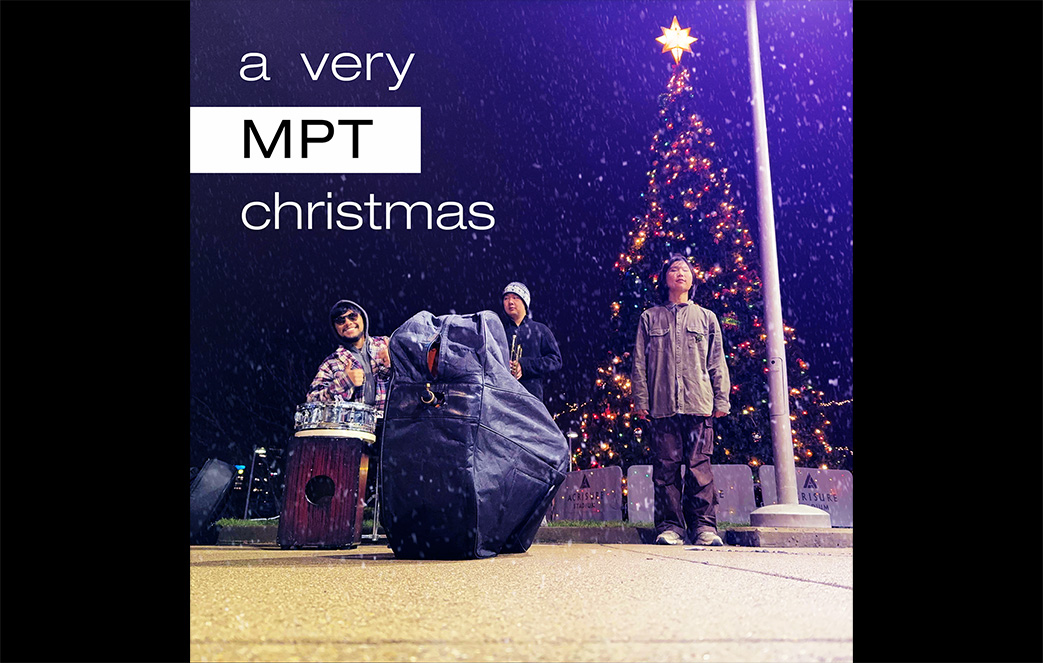
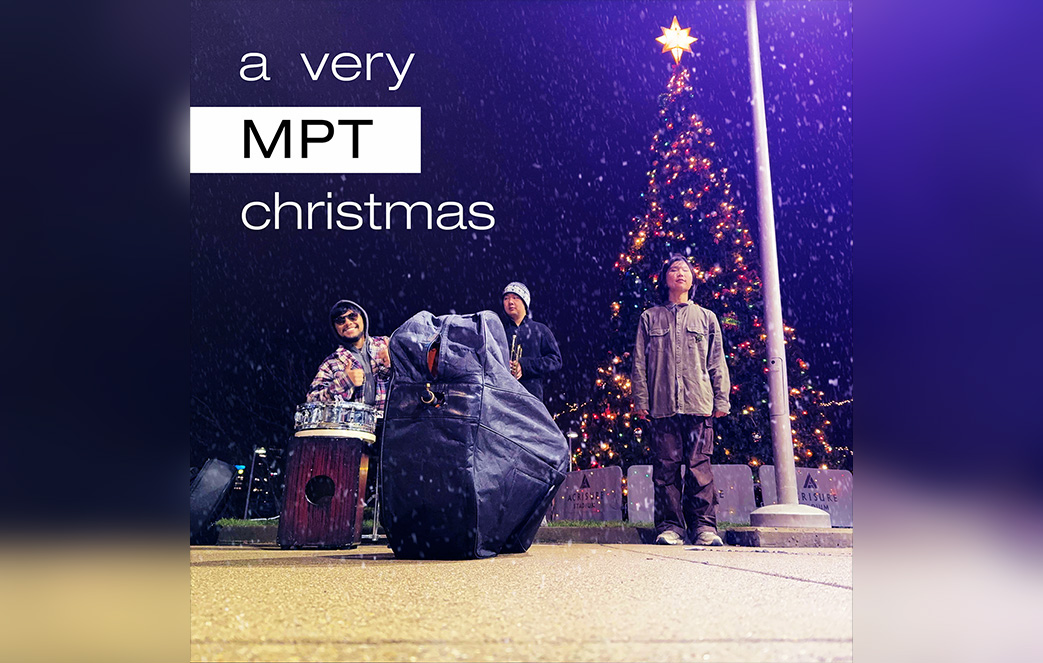
little by little

diff --git a/index.html b/index.html
@@ -9,8 +9,8 @@
     <link rel="preconnect" href="https://fonts.googleapis.com">
     <link rel="preconnect" href="https://fonts.gstatic.com" crossorigin>
     <link href="https://fonts.googleapis.com/css2?family=Rubik:ital,wght@0,300..900;1,300..900&display=swap" rel="stylesheet">
-  <script type="module" crossorigin src="/assets/index-BEAF3D1z.js"></script>
-  <link rel="stylesheet" crossorigin href="/assets/index-zCes93-q.css">
+  <script type="module" crossorigin src="/assets/index-CxiC5zSy.js"></script>
+  <link rel="stylesheet" crossorigin href="/assets/index-CX1g-AA_.css">
 </head>
 <body>
     <header class="sticky-header">
@@ -209,7 +209,7 @@
                             <p class="gallery-title">Fishing With JJ</p>
                             <p class="gallery-subtitle">Game Jam</p>
                         </div>
-                        <img data-src="/assets/Home/Wireframe.jpg">
+                        <img data-src="/assets/2025/FishingWithJJ/Spawn.jpg">
                     </a>
                     <a href="src/2024-2025/Guan.html" class="gallery-item wide">
                         <div class="overlay"></div>
@@ -217,7 +217,12 @@
                             <p class="gallery-title">Guan</p>
                             <p class="gallery-subtitle">Game</p>
                         </div>
-                        <img data-src="/assets/Home/Wireframe.jpg">
+                        <img data-src="/assets/2025/Guan/MoonRiver.jpg">
+			<img data-src="/assets/2025/Guan/Redroom.jpg">
+			<img data-src="/assets/2025/Guan/Cabin.jpg">
+			<img data-src="/assets/2025/Guan/Arms.jpg">
+			<img data-src="/assets/2025/Guan/Bar.jpg">
+			<img data-src="/assets/2025/Guan/End.jpg">
                     </a>
                     <a href="src/2025/YeastFeast.html" class="gallery-item">
                         <div class="overlay"></div>
@@ -225,9 +230,9 @@
                             <p class="gallery-title">Yeast Feast</p>
                             <p class="gallery-subtitle">Game Jam</p>
                         </div>
-                        <img data-src="/assets/2025/YeastFeast/mouth.png">
-                        <img data-src="/assets/2025/YeastFeast/front.png">
-			<img data-src="/assets/2025/YeastFeast/bed.png">
+                        <img data-src="/assets/2025/YeastFeast/Mouth.jpg">
+                        <img data-src="/assets/2025/YeastFeast/Front.jpg">
+			<img data-src="/assets/2025/YeastFeast/Bed.jpg">
                     </a>
                 </div>
             </div>
@@ -251,15 +256,20 @@
                             <p class="gallery-title">It's Rewind Time</p>
                             <p class="gallery-subtitle">Game</p>
                         </div>
-                        <img data-src="/assets/Home/Wireframe.jpg">
+                        <img data-src="/assets/2024/It'sRewindTime/Wireframe.jpg">
+			<img data-src="/assets/2024/It'sRewindTime/TeaForTwo.jpg">
+			<img data-src="/assets/2024/It'sRewindTime/Menu.jpg">
+			<img data-src="/assets/2024/It'sRewindTime/Overworld.jpg">
+			<img data-src="/assets/2024/It'sRewindTime/MilesHigh.jpg">
+			<img data-src="/assets/2024/It'sRewindTime/TheOctopus.jpg">
                     </a>
                     <a href="" class="gallery-item">
                         <div class="overlay"></div>
                         <div class="gallery-text">
-                            <p class="gallery-title">Unreal Plugin</p>
+                            <p class="gallery-title">Editor Mode Plugin</p>
                             <p class="gallery-subtitle">Project</p>
                         </div>
-                        <img data-src="/assets/Home/Wireframe.jpg">
+                        <img data-src="/assets/2024/EditorModePlugin/Temp.jpg">
                     </a>
                     <a href="" class="gallery-item">
                         <div class="overlay"></div>
@@ -272,10 +282,11 @@
                     <a href="src/2024-2025/Guan.html" class="gallery-item">
                         <div class="overlay"></div>
                         <div class="gallery-text">
-                            <p class="gallery-title">Unreal Ability</p>
+                            <p class="gallery-title">Multiplayer Ability System</p>
                             <p class="gallery-subtitle">Project</p>
                         </div>
-                        <img data-src="/assets/Home/Wireframe.jpg">
+                        <img data-src="/assets/2024/MultiplayerAbilitySystem/Blueprint.jpg">
+			<img data-src="/assets/2024/MultiplayerAbilitySystem/Abilities.jpg">
                     </a>
                     <a href="src/2024-2025/YeastFeast.html" class="gallery-item">
                         <div class="overlay"></div>
@@ -283,9 +294,10 @@
                             <p class="gallery-title">Hentai World 2</p>
                             <p class="gallery-subtitle">Game</p>
                         </div>
-                        <img data-src="/assets/2025/YeastFeast/mouth.png">
-                        <img data-src="/assets/2025/YeastFeast/front.png">
-			<img data-src="/assets/2025/YeastFeast/bed.png">
+                        <img data-src="/assets/2024/HentaiWorld2/Levels.jpg">
+                        <img data-src="/assets/2024/HentaiWorld2/3x3.jpg">
+			<img data-src="/assets/2024/HentaiWorld2/Title.jpg">
+			<img data-src="/assets/2024/HentaiWorld2/5x5.jpg">
                     </a>
                 </div>
             </div>
@@ -299,7 +311,7 @@
                         <div class="overlay"></div>
                         <div class="gallery-text">
                             <p class="gallery-title">Backyard</p>
-                            <p class="gallery-subtitle">Game</p>
+                            <p class="gallery-subtitle">Render</p>
                         </div>
                         <img data-src="/assets/2023/Backyard/Fire.jpg">
 			<img data-src="/assets/2023/Backyard/Sun.jpg">
@@ -310,7 +322,10 @@
                             <p class="gallery-title">Just Another Walking Sim</p>
                             <p class="gallery-subtitle">Game</p>
                         </div>
-                        <img data-src="/assets/Home/Wireframe.jpg">
+                        <img data-src="/assets/2023/JustAnotherWalkingSim/Twine.jpg">
+			<img data-src="/assets/2023/JustAnotherWalkingSim/Kurt.jpg">
+			<img data-src="/assets/2023/JustAnotherWalkingSim/Measure.jpg">
+			<img data-src="/assets/2023/JustAnotherWalkingSim/Doorbell.jpg">
                     </a>
                     <a href="" class="gallery-item">
                         <div class="overlay"></div>

diff --git a/assets/index-CxiC5zSy.js b/assets/index-CxiC5zSy.js
@@ -1,0 +1,1 @@
+(function(){const i=document.createElement("link").relList;if(i&&i.supports&&i.supports("modulepreload"))return;for(const s of document.querySelectorAll('link[rel="modulepreload"]'))m(s);new MutationObserver(s=>{for(const r of s)if(r.type==="childList")for(const a of r.addedNodes)a.tagName==="LINK"&&a.rel==="modulepreload"&&m(a)}).observe(document,{childList:!0,subtree:!0});function h(s){const r={};return s.integrity&&(r.integrity=s.integrity),s.referrerPolicy&&(r.referrerPolicy=s.referrerPolicy),s.crossOrigin==="use-credentials"?r.credentials="include":s.crossOrigin==="anonymous"?r.credentials="omit":r.credentials="same-origin",r}function m(s){if(s.ep)return;s.ep=!0;const r=h(s);fetch(s.href,r)}})();const g=document.querySelectorAll(".slide"),w=document.querySelector(".hover.left"),E=document.querySelector(".hover.right");let u=0,S;function y(c){g[u].classList.remove("active"),u=(c+g.length)%g.length,g[u].classList.add("active")}function v(){clearInterval(S),S=setInterval(function(){y(u+1)},5e3)}w.addEventListener("click",()=>{y(u-1),v();const c=document.querySelector(".slideshow-nav.left");c.classList.add("clicking"),setTimeout(()=>{c.classList.remove("clicking")},500)});E.addEventListener("click",()=>{y(u+1),v();const c=document.querySelector(".slideshow-nav.right");c.classList.add("clicking"),setTimeout(()=>{c.classList.remove("clicking")},500)});y(0);v();document.addEventListener("DOMContentLoaded",()=>{const c=document.querySelectorAll(".gallery-header");c.forEach(t=>{const e=t.nextElementSibling;t.addEventListener("click",()=>{t.classList.toggle("active"),t.querySelector(".arrow").classList.toggle("expanded");const l=e.classList.contains("active"),o=e.scrollHeight;l?e.style.height=0:e.style.height=o+"px",e.classList.toggle("active")}),t.classList.toggle("active"),t.querySelector(".arrow").classList.toggle("expanded"),e.classList.toggle("active"),e.style.height=e.scrollHeight+"px"}),window.addEventListener("resize",()=>{c.forEach(t=>{const e=t.nextElementSibling;e.classList.contains("active")&&(e.style.height="auto",e.style.height=e.scrollHeight+"px")})});const i=document.querySelector(".hover.left"),h=document.querySelector(".hover.right"),m=document.querySelector(".slideshow-nav.left"),s=document.querySelector(".slideshow-nav.right");i.addEventListener("mouseenter",()=>{m.style.opacity="1"}),i.addEventListener("mouseleave",()=>{m.style.opacity="0"}),h.addEventListener("mouseenter",()=>{s.style.opacity="1"}),h.addEventListener("mouseleave",()=>{s.style.opacity="0"});const r=document.querySelectorAll(".gallery-item"),a=[];r.forEach(t=>{const e=t.querySelectorAll("img"),l=e.length>1?Math.floor(Math.random()*e.length):0,o=e[l];o.classList.add("active"),t.dataset.currentIndex=l;const n=o.dataset.src;if(n){const d=new Promise(L=>{o.onload=L,o.onerror=L,o.src=n});a.push(d)}}),Promise.all(a).then(()=>{r.forEach(t=>{const e=t.querySelectorAll("img");if(e.length<=1)return;const l=[];e.forEach(o=>{if(!o.src&&o.dataset.src){const n=new Promise(d=>{o.onload=d,o.onerror=d,o.src=o.dataset.src});l.push(n)}}),Promise.all(l).then(()=>{let o=parseInt(t.dataset.currentIndex)||0;const n=Math.max(4e3,12e3/e.length)+Math.random()*4e3;setInterval(()=>{e[o].classList.remove("active"),o=(o+1)%e.length,e[o].classList.add("active")},n)})})});const f=document.querySelector(".scroll-arrow");f.addEventListener("click",()=>{document.querySelector(".gallery").scrollIntoView({behavior:"smooth"})}),window.addEventListener("scroll",()=>{window.scrollY>0&&(f.style.opacity="0",f.style.pointerEvents="none")}),document.querySelectorAll(".links a").forEach(t=>{const e=t.offsetWidth;t.style.setProperty("--gradient-width",`${e*2}px`),t.style.setProperty("--animation-duration",`${e*.025}s`)}),document.querySelectorAll(".social-media img").forEach(t=>{const o=window.getComputedStyle(t).maskImage.replace(/^url\(['"](.+)['"]\)$/,"$1"),n=new Image;n.src=o,n.onload=()=>{const d=n.naturalWidth/n.naturalHeight;t.style.width=`${32*d}px`}});const p=window.location.hash;p&&setTimeout(()=>{document.querySelector(p.slice(1)).scrollIntoView({behavior:"smooth"})},800)});

diff --git a/assets/index-CX1g-AA_.css b/assets/index-CX1g-AA_.css
@@ -1,0 +1,1 @@
+*{margin:0;padding:0;box-sizing:border-box}body{font-family:Rubik,sans-serif;font-weight:400;background-color:#000}body:before{content:"";position:fixed;top:-50%;left:-50%;width:200%;height:200%;background:radial-gradient(circle at 30% 50%,#41a2c54d,#0e1e2d00 50%),radial-gradient(circle at 70% 50%,#57126c33,#0e1e2d00 50%),radial-gradient(circle at 50% 30%,#0f265b4d,#0e1e2d00 50%);animation:flowEffect 69s ease-in-out infinite,pulseEffect 42s ease-in-out infinite;transform-origin:center;z-index:-1}@keyframes flowEffect{0%{transform:rotate(0) scale(1)}33%{transform:rotate(120deg) scale(1.2)}66%{transform:rotate(240deg) scale(.8)}to{transform:rotate(360deg) scale(1)}}@keyframes pulseEffect{0%,to{filter:brightness(.9) saturate(1)}50%{filter:brightness(1) saturate(1.25)}85%{filter:brightness(.5) saturate(1)}}main{display:flex;flex-direction:column}.slideshow{height:100vh;display:flex;align-items:center;position:relative;overflow:hidden}.slides{position:relative;width:100%;height:100%}.slide{position:absolute;width:100%;height:100%;opacity:0;transition:all .75s ease}.slide.active{opacity:1}.slide img{width:100%;height:100%;object-fit:cover}.slideshow-nav{position:absolute;height:4%;aspect-ratio:1;background:none;border:none;opacity:0;pointer-events:none;transition:all .3s ease;z-index:2}.left{left:25px}.right{right:25px}.slideshow-nav.clicking{animation:buttonClick .5s ease}@keyframes buttonClick{0%{opacity:1}50%{opacity:.3}to{opacity:1}}.hover{position:absolute;top:0;height:100%;width:8%;opacity:0;cursor:pointer;transition:all .3s ease;z-index:1}.hover.left{left:0;background:linear-gradient(to right,rgba(0,0,0,.6),transparent)}.hover.right{right:0;background:linear-gradient(to left,rgba(0,0,0,.6),transparent)}.hover:hover{opacity:1}.scroll-arrow{position:absolute;bottom:24px;left:calc(50% - 4vh);height:4vh;opacity:.6;z-index:2;cursor:pointer;animation:bounce 2s infinite;transition:all .5s ease}.scroll-arrow:hover{opacity:1}@keyframes bounce{0%,20%,50%,80%,to{transform:scalex(.9) rotate(90deg) translate(0)}40%{transform:scalex(.9) rotate(90deg) translate(-20px)}60%{transform:scalex(.9) rotate(90deg) translate(-10px)}}.gallery{display:flex;flex-direction:column}.gallery-header{width:100%;padding:16px 24px;background-color:#0d0d179f;border:none;cursor:pointer;display:flex;align-items:center;gap:16px;font-size:24px;color:#cacaca;transition:all .3s ease}.gallery-header:hover{background-color:#2c375454}.gallery-header:hover p{background:50% 100% / 50% 50% no-repeat radial-gradient(ellipse at bottom,#ffffff,transparent,transparent);-webkit-background-clip:text;background-clip:text;background-size:300% 300%;color:#fff;animation:glow 2.5s ease-in-out infinite}@keyframes glow{40%{text-shadow:0 0 9px #fff}}.arrow{height:18px;transition:all .5s ease}.arrow.expanded{transform:rotate(90deg)}.gallery-grid{height:0;overflow:hidden;transition:all .75s ease-out;display:grid;grid-template-columns:repeat(4,1fr);grid-auto-rows:max(180px,14vw)}.gallery-item{position:relative;overflow:hidden}.gallery-item.wide{grid-column:span 2}.gallery-item img{position:absolute;top:0;left:0;width:100%;height:100%;object-fit:cover;opacity:0;transition:transform .3s ease,opacity .75s ease}.gallery-item:hover img{transform:scale(1.1)}.gallery-item img.active{opacity:1}.gallery-text{position:absolute;top:32px;left:32px;display:flex;flex-direction:column;gap:8px;z-index:2}.gallery-title{color:#fff;font-size:24px;font-weight:500;opacity:0;transform:translate(20px);transition:all .3s ease}.gallery-subtitle{color:#dcdcdc;font-size:16px;opacity:0;transform:translate(40px);transition:all .5s ease .1s}.gallery-item:hover .gallery-title,.gallery-item:hover .gallery-subtitle{opacity:1;transform:translate(0)}.gallery-item .overlay{position:absolute;top:0;bottom:0;left:0;right:0;background-color:#0000;transition:all .3s ease;z-index:1}.gallery-item:hover .overlay{background-color:#00000080}
